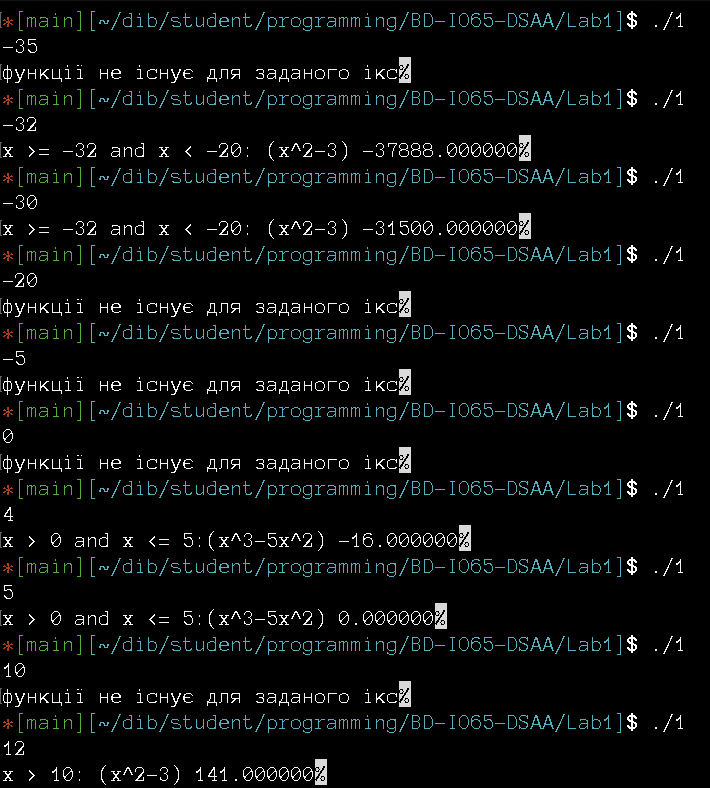
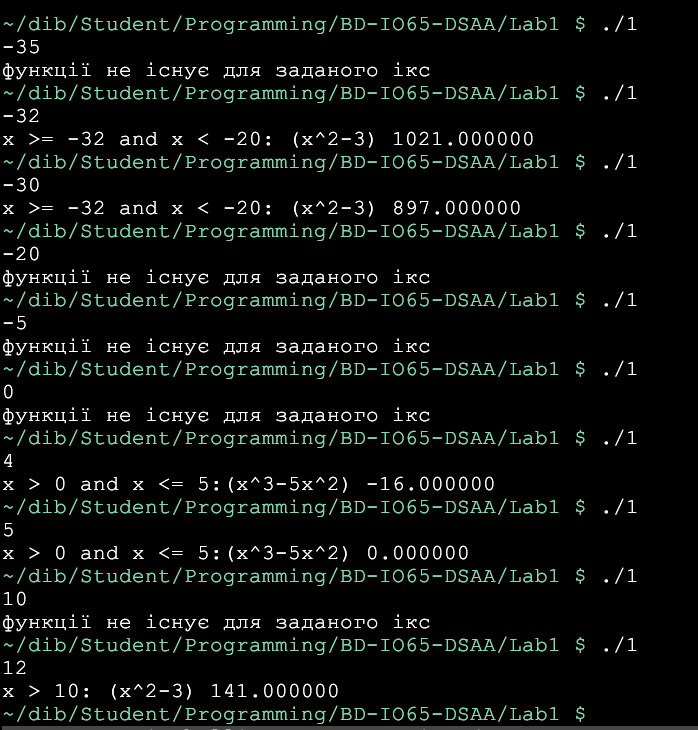
GNU style forever + fix

diff --git a/Lab1/1.c b/Lab1/1.c
@@ -9,31 +9,31 @@ main ()
     {
       if (x <= 5)
 	{
-	  printf ("x > 0 and x <= 5:(x^3-5x^2) %f", x * x * x - 5 * x * x);
+	  printf ("x > 0 and x <= 5:(x^3-5x^2) %f\n", x * x * x - 5 * x * x);
 	}
       else if (x > 10)
 	{
-	  printf ("x > 10: (x^2-3) %f", x * x - 3);
+	  printf ("x > 10: (x^2-3) %f\n", x * x - 3);
 	}
       else
 	{
-	  printf ("функції не існує для заданого ікс");
+	  printf ("функції не існує для заданого ікс\n");
 	}
     }
   else if (x >= -32)
     {
       if (x < -20)
 	{
-	  printf ("x >= -32 and x < -20: (x^2-3) %f", x * x * x - 5 * x * x);
+	  printf ("x >= -32 and x < -20: (x^2-3) %f\n", x * x - 3);
 	}
       else
 	{
-	  printf ("функції не існує для заданого ікс");
+	  printf ("функції не існує для заданого ікс\n");
 	}
     }
   else
     {
-      printf ("функції не існує для заданого ікс");
+      printf ("функції не існує для заданого ікс\n");
     }
   return 0;
 }

diff --git a/Lab1/2.c b/Lab1/2.c
@@ -8,15 +8,15 @@ main ()
   scanf ("%f", &x);
   if (x > 0 && x <= 5)
     {
-      printf ("x > 0 && x <= 5: (x^3-5x^2) %f", x * x * x - 5 * x * x);
+      printf ("x > 0 && x <= 5: (x^3-5x^2) %f\n", x * x * x - 5 * x * x);
     }
   else if ((x >= -32 && x < -20) || x > 10)
     {
-      printf ("x ∈ [–32,–20) ∪ (10, +∞): (x^2-3) %f", x * x - 3);
+      printf ("x ∈ [–32,–20) ∪ (10, +∞): (x^2-3) %f\n", x * x - 3);
     }
   else
     {
-      printf ("функції не існує для заданого ікс");
+      printf ("функції не існує для заданого ікс\n");
     }
   return 0;
 }

diff --git a/Lab1/.#1.c b/Lab1/.#1.c
@@ -1,0 +1,1 @@
+crystal@crystals-MacBook-Air.local.50502:1789417252

diff --git a/Lab1/звіт.md b/Lab1/звіт.md
@@ -17,10 +17,14 @@
 ## Блок-схеми
 
 - Для завдання 1:
+
 ![](1.svg)
 
+
 - Для завдання 2:
+
 ![](2.svg)
+
 
 ## Код
 
@@ -34,6 +38,6 @@
 ![](results_1.png)
 
 - Код 2:
-Для перевірки взяв такі числа: -35 (не існує), -32 (x ∈ [–32,–20) ∪ (10, +∞)), -22 (x ∈ [–32,–20) ∪ (10, +∞)), -20, -5, 0 (не існує), 4, 5 (x ∈ [0, 5)), 10 (не існує), 999 (x ∈ [–32,–20) ∪ (10, +∞)).
+Для перевірки взяв такі числа: -35 (не існує), -32 (x ∈ [–32,–20) ∪ (10, +∞)), -30 (x ∈ [–32,–20) ∪ (10, +∞)), -20, -5, 0 (не існує), 4, 5 (x ∈ [0, 5)), 10 (не існує), 12 (x ∈ [–32,–20) ∪ (10, +∞)).
 
 ![](results_2.png)
